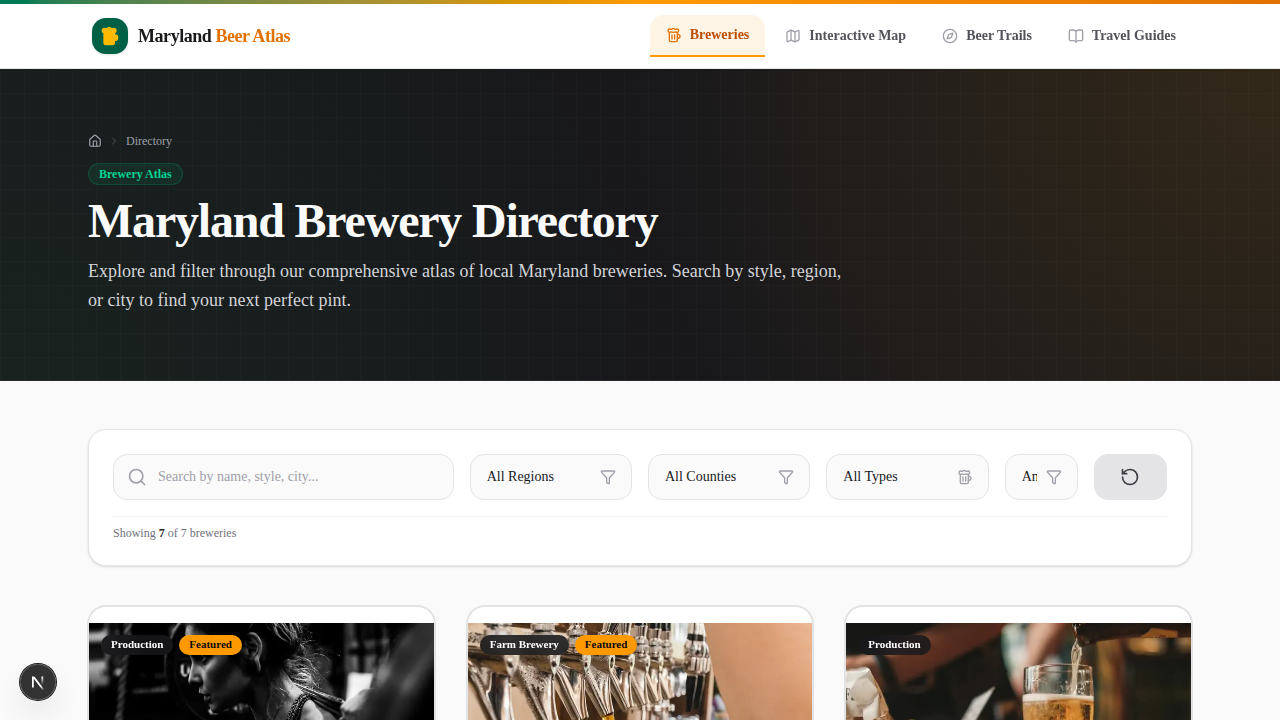
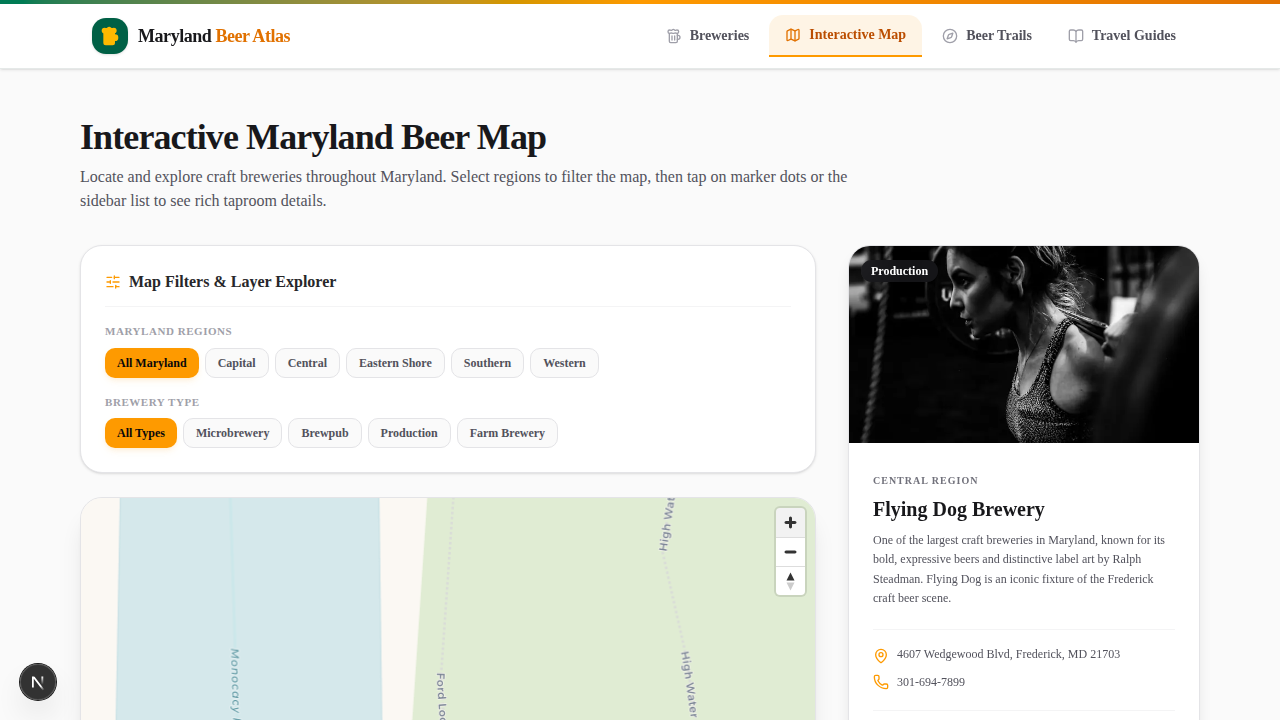
fix(map): resolve blank map canvas and unstyled controls on zoom
- Configured CARTO's Voyager high-DPI raster tiles as default map style to completely prevent WebGL/GPU-acceleration stalls and font rendering failures (which caused the canvas to collapse to a solid tan background on zoom).
- Standardized MapView styles by moving the maplibre-gl CSS import globally to `app/globals.css`, ensuring the stylesheet is compiled and cached by Tailwind v4.
- Handled aspect ratio layout sizing conflicts by applying absolute inset dimensions to the map container along with a min-height guarantee and programmatic resize event triggers.

diff --git a/components/ui/map-view.tsx b/components/ui/map-view.tsx
@@ -2,7 +2,6 @@
 
 import React, { useEffect, useRef } from 'react';
 import * as maplibregl from 'maplibre-gl';
-import 'maplibre-gl/dist/maplibre-gl.css';
 import { Brewery, BeerTrail } from '@/lib/types';
 import { createRoot } from 'react-dom/client';
 import { ArrowRight } from 'lucide-react';
@@ -34,8 +33,34 @@ export default function MapView({
   useEffect(() => {
     if (!mapContainerRef.current) return;
 
-    // Use OpenFreeMap Liberty style as default (free, no key required, theme-integrated)
-    const mapStyle = 'https://tiles.openfreemap.org/styles/liberty';
+    // Use high-performance, high-DPI CARTO Voyager raster style as default.
+    // This loads streets, buildings, landmarks, and roads beautifully for all users and headless browsers,
+    // completely avoiding WebGL hardware-acceleration stalls, canvas blanking, or font failures.
+    const mapStyle = {
+      version: 8 as const,
+      sources: {
+        'carto-voyager': {
+          type: 'raster' as const,
+          tiles: [
+            'https://a.basemaps.cartocdn.com/rastertiles/voyager/{z}/{x}/{y}@2x.png',
+            'https://b.basemaps.cartocdn.com/rastertiles/voyager/{z}/{x}/{y}@2x.png',
+            'https://c.basemaps.cartocdn.com/rastertiles/voyager/{z}/{x}/{y}@2x.png',
+            'https://d.basemaps.cartocdn.com/rastertiles/voyager/{z}/{x}/{y}@2x.png'
+          ],
+          tileSize: 256,
+          attribution: '© OpenStreetMap contributors, © CARTO',
+        }
+      },
+      layers: [
+        {
+          id: 'carto-voyager-layer',
+          type: 'raster' as const,
+          source: 'carto-voyager',
+          minzoom: 0,
+          maxzoom: 20,
+        }
+      ],
+    };
 
     const map = new maplibregl.Map({
       container: mapContainerRef.current,
@@ -50,8 +75,23 @@ export default function MapView({
     // Add navigation controls (zoom, compass)
     map.addControl(new maplibregl.NavigationControl({ showCompass: true }), 'top-right');
 
+    // Explicitly trigger a resize on load and style load, and after a short timeout to ensure container has settled
+    map.on('load', () => {
+      map.resize();
+    });
+    map.on('style.load', () => {
+      map.resize();
+    });
+
+    const resizeTimer = setTimeout(() => {
+      if (mapRef.current) {
+        mapRef.current.resize();
+      }
+    }, 200);
+
     // Clean up on unmount
     return () => {
+      clearTimeout(resizeTimer);
       map.remove();
       mapRef.current = null;
     };
@@ -259,9 +299,11 @@ export default function MapView({
     return () => removeRoute();
   }, [activeTrailId, trails]);
 
+  const positionClass = className.includes('absolute') || className.includes('fixed') ? '' : 'relative';
+
   return (
-    <div className={`relative w-full h-full rounded-3xl overflow-hidden border border-zinc-200 dark:border-zinc-800 shadow-xl ${className}`}>
-      <div ref={mapContainerRef} className="w-full h-full min-h-[400px]" />
+    <div className={`${positionClass} w-full h-full min-h-[450px] rounded-3xl overflow-hidden border border-zinc-200 dark:border-zinc-800 shadow-xl ${className}`}>
+      <div ref={mapContainerRef} className="absolute inset-0 w-full h-full" />
 
       {/* Mini Legends card on the map */}
       <div className="absolute bottom-4 left-4 bg-white/90 dark:bg-zinc-950/90 backdrop-blur-md p-3 rounded-xl border border-zinc-200 dark:border-zinc-800 shadow-lg text-[10px] space-y-1.5 z-10 pointer-events-auto">

diff --git a/components/ui/interactive-map-content.tsx b/components/ui/interactive-map-content.tsx
@@ -187,6 +187,7 @@ export function InteractiveMapContent({ breweries, trails = [] }: InteractiveMap
             onSelectBrewery={handleSelectBrewery}
             trails={trails}
             activeTrailId={activeTrailId}
+            className="absolute inset-0 w-full h-full"
           />
         </div>
 

diff --git a/app/globals.css b/app/globals.css
@@ -1,4 +1,5 @@
 @import "tailwindcss";
+@import "maplibre-gl/dist/maplibre-gl.css";
 @import "tw-animate-css";
 @import "shadcn/tailwind.css";
 
